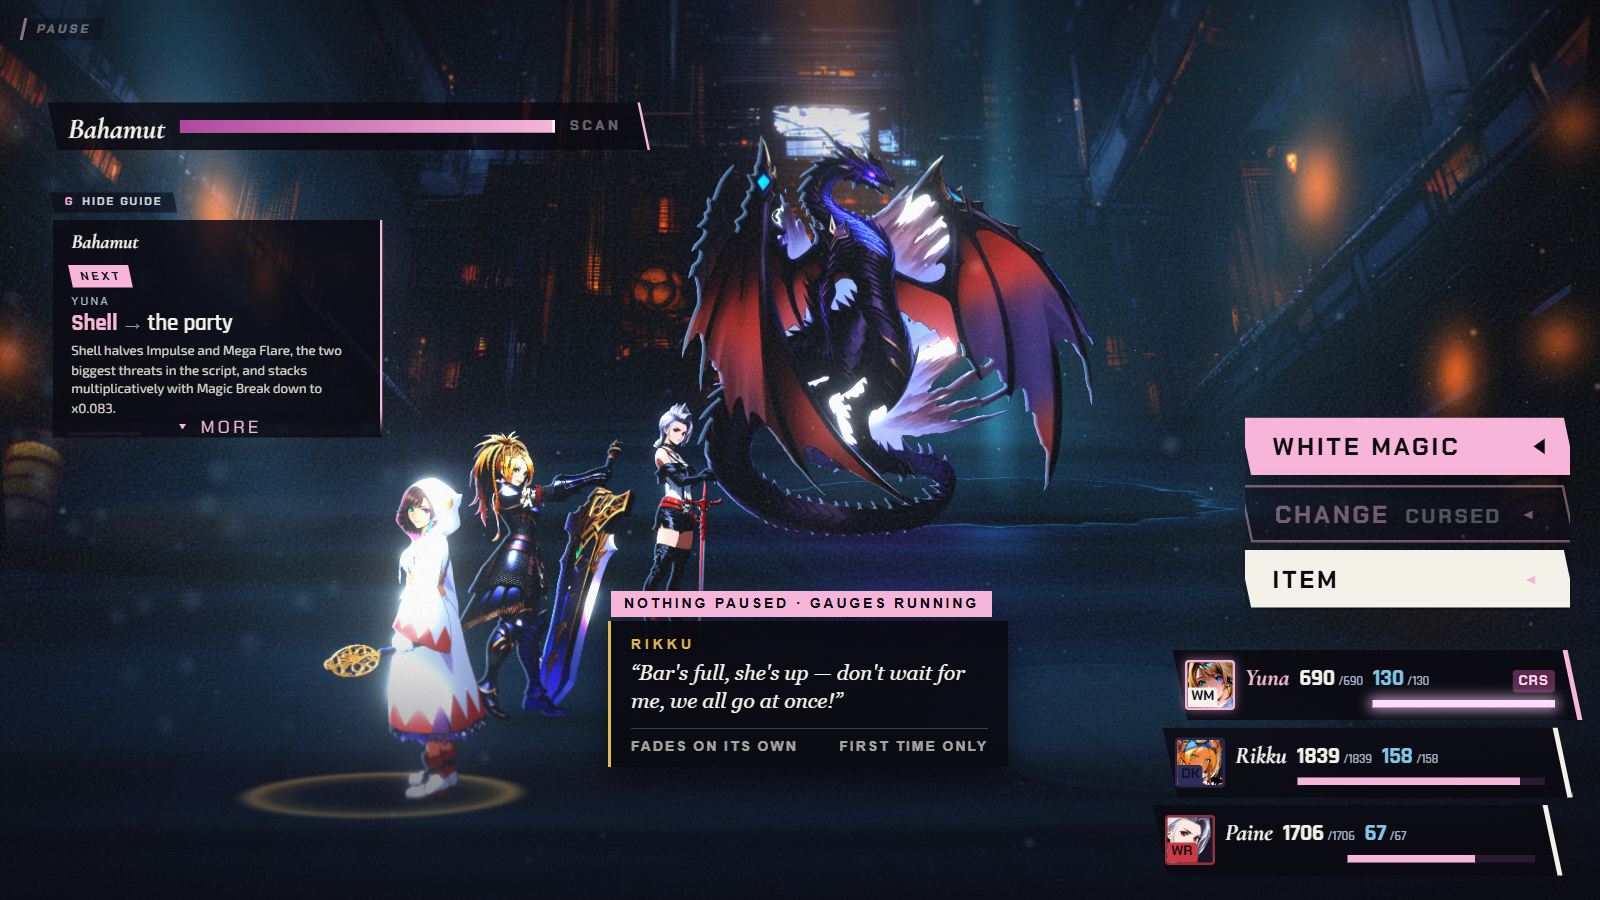
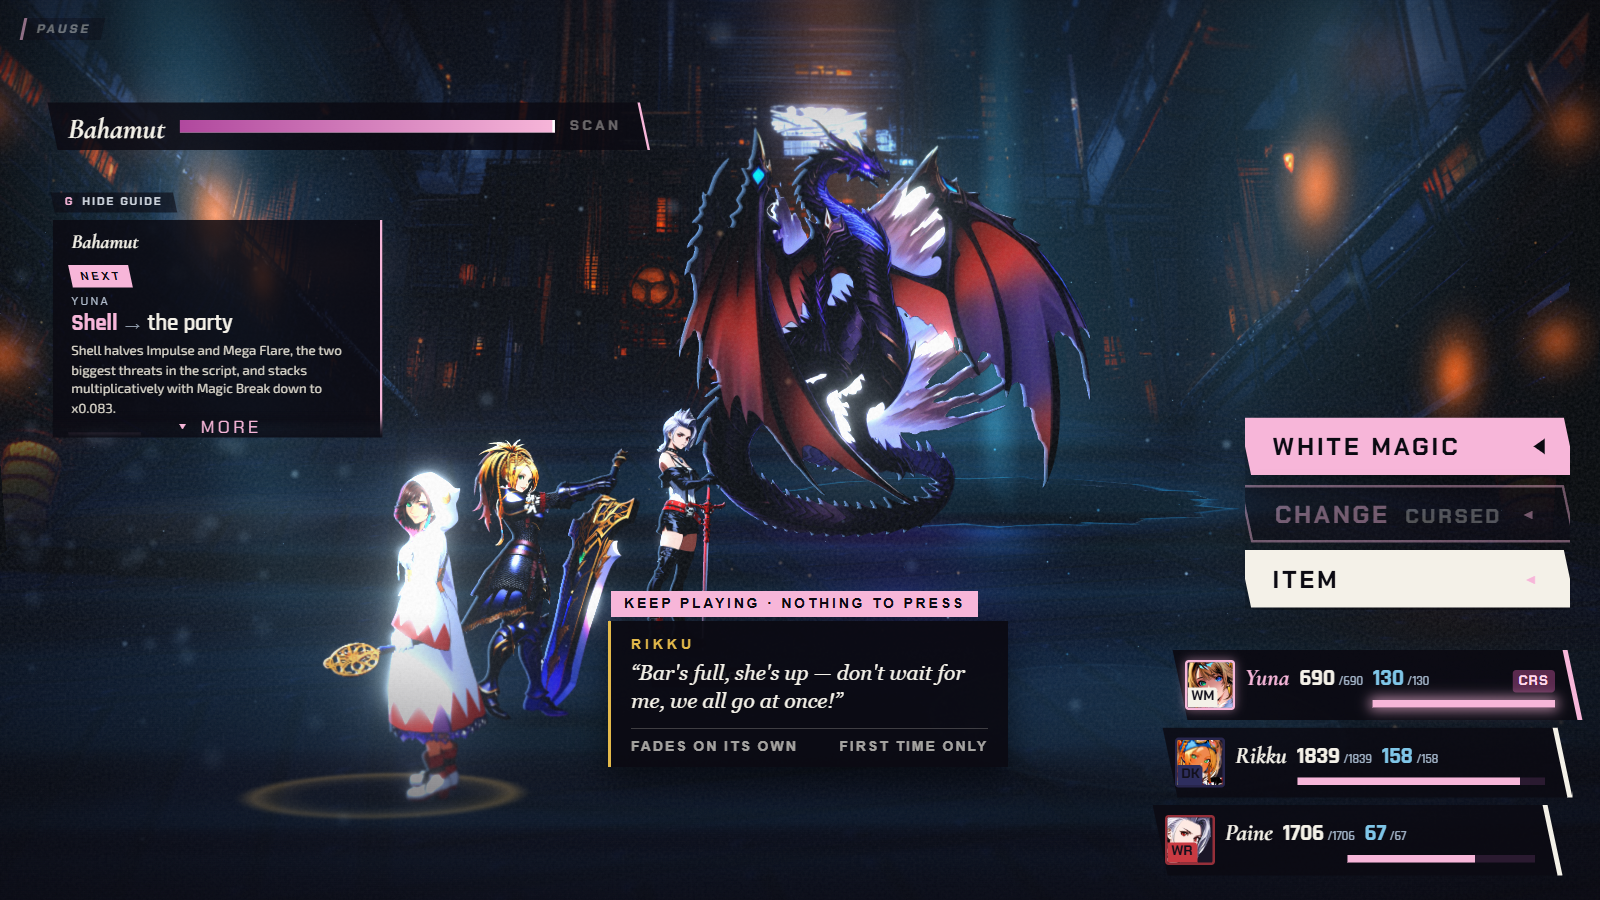
Onboarding: record the fix pass, the evidence and the X-2 clock question
Game case: BOTH. Documentation of a both-games fix; the one FFX-2-only item (the
badge wording and the Active-vs-Wait question behind it) is named as such.

- docs/handoff/onboarding-c.md: what the adversarial pass refuted, the root cause
  of each, the repair, the before/after measurements from the verifier's own probes
  re-run against the fix, and the tests that pin them. The first build's claim that
  the layer test proved the gauge kept running is marked superseded.
- docs/target/targets.json: the C3 tile records one knowing departure from the
  approved frame's label - the mockup's "NOTHING PAUSED - GAUGES RUNNING" badge is
  an incidental label in the image, not a property Bailey named, and the running
  game does not honour it. Bailey named "FFX-2 lines come from Rikku with nothing
  paused", which is about the line and does hold.
- docs/screenshots/onboarding/: the three approved moments re-captured at 1600x900
  and 390x844 after the fix, and the three target-versus-build pairs rebuilt.

New open item for Bailey: should the FFX-2 ATB run during command input at all?
It does not today, with teaching on or off. That is the Active/Wait setting, which
the build does not implement; it is a combat-core change and needs an explicit yes.

diff --git a/docs/handoff/onboarding-c.md b/docs/handoff/onboarding-c.md
@@ -1,7 +1,88 @@
 # Onboarding — option C, Auron's briefing
 
-**Status: built, green, not deployed.** Commits `5e8eca5` (the target) and the build
-commit that follows it. Live verification and the critic review are still owed.
+**Status: built, refuted in four places, repaired, green, not deployed.** Commits
+`5e8eca5` (the target), `b8a905f` (the build) and the fix-pass commit that follows.
+Live verification and the critic review are still owed.
+
+## The fix pass (2026-09-20) — what an adversarial verifier refuted, and the repair
+
+Four findings, none of them cosmetic. Each repair is pinned by a test that fails
+without it; the first three were re-measured on the running game afterwards.
+
+### 1–2. Confirm and cancel leaked through the briefing — **root cause, one bug, three symptoms**
+
+Measured before: first launch → Enter on the title → briefing → Enter again left
+`__pyrefly.screen() === 'party-prep'`, so a first-timer never saw the chapter board;
+Escape left `'title'`, backing the board out; the pause replay re-raised itself on
+every confirm, forever; the title replay started the flow. The two keys printed on the
+briefing's own foot were exactly the two that misbehaved.
+
+The cause was **not** in the briefing. `Input.claimKeyboard` stopped the DOM **event**
+in the capture phase but `Input.onKeyDown` then still ran `this.press(button)`, so the
+abstract `confirm` / `cancel` button was latched and the next screen's `handleInput`
+saw `justPressed()`. The gamepad had a worse version: the pad is polled both in
+`Input.update()` and in the overlay's own `requestAnimationFrame`, and whichever ran
+first decided whether the screen behind also acted.
+
+The repair (`src/app/Input.ts`) is a second kind of claim:
+`claimKeyboard(onKey, { exclusive: true })`.
+
+- a key an exclusive claimant swallows latches **no** abstract button;
+- while the claim is up every screen behind reads no button, no axis and no queued
+  `data-action` at all (`Input.blind`);
+- the frame **after** the claim is handed back drops every pending edge
+  (`absorbEdges`, `swallowFrames`), so the two poll loops' order stops mattering;
+- a still-held button never produces a second edge, and a genuinely new press after
+  the overlay is live input again — both asserted.
+
+Three consequences in the callers:
+
+- `raiseBriefing.ts` takes the exclusive claim. `Briefing.onClick` now
+  `stopPropagation()`s, so a `briefing:skip` click cannot be queued for the screen
+  behind either.
+- `PauseScreen` no longer forwards input to the briefing at all — forwarding is what
+  made the replay unskippable, because confirm reached `handleAction` a moment after
+  the briefing had resolved and re-activated the still-selected REPLAY BRIEFING row.
+  `Briefing.handleInput` and the `driven` option are gone with it.
+- The briefing's own pad watcher now sets `ignoreSuspend`
+  (`src/ui/ffx/rawInput.ts`): the pause overlay mutes every HUD watcher, and the
+  briefing is the overlay that mute protects the fight *from*, so it has to keep
+  reading the pad when it is replayed from pause.
+
+### 3. The FFX-2 badge asserted something the running game does not do
+
+The badge read **NOTHING PAUSED · GAUGES RUNNING**. Measured: Chapter 4,
+`state.ticks` 8189 → 8189 across 1 502 ms with the line up, per-actor ATB identical,
+rendered bar widths identical to four decimals; Chapter 5 the same. And the control
+run with `?coach=off` at the same moment is identical — **the coach layer is not the
+cause**. `BattlePresenter` awaits `HudPort.chooseCommand` and the FFX-2 engine is
+ticked only in its `waiting` branch, so the X-2 clock does not advance during command
+input in this build at all, with or without teaching.
+
+The verifier's own framing: either the badge goes or the X-2 input model runs the
+clock. The second is a combat-core change, it is an Active-vs-Wait question, and
+under hard rule 10 it needs Bailey's yes — so it is written up under "Open" and the
+badge went instead. It now reads **KEEP PLAYING · NOTHING TO PRESS**: two things that
+are measurably true of the line (the menu is open underneath it, the arrows move the
+cursor while it fades, and it asks for no key). Bailey named the property *"FFX-2
+lines come from Rikku with nothing paused"* — that is about the line, and it holds.
+The mockup's badge text was an incidental label in the image, not a named property,
+and the departure is recorded on the C3 tile in `docs/target/targets.json`.
+
+### 4. The test that was supposed to prove the clock keeps running proved nothing
+
+`ui-coach-layer.test.ts` read the engine's gauges, then ticked the engine **itself**,
+then asserted the gauges had grown. They always had. The coach layer never touches
+the engine, so the assertion could not fail. Replaced by two that can:
+
+1. the inner HUD is asked for the menu **before a single `await`** — the X-2 line and
+   the menu go up in the same turn of the event loop;
+2. a driver shaped like the presenter's own loop ticks a **real `FFX2Engine`** once
+   per turn while the HUD's promise is outstanding, and counts the turns; a held line
+   only resolves when its 5.2 s fade timer fires, which in that loop is never.
+
+Both were mutation-checked: adding `await shown` to the FFX-2 branch turns (1) red,
+and flipping `ffx2-gauge` to `holds: true` turns both red.
 
 ## What Bailey approved
 
@@ -123,7 +204,51 @@ framed with CSS only. **Nothing was generated, recropped or regraded.**
 - **R16 (reuse the cold open as the link preview / OG card)** — a metadata fix, not a
   perceivable screen; it belongs with round-02 #33.
 
-## How it was verified
+## How the fix pass was verified (2026-09-20)
+
+`npx tsc --noEmit` clean. **Full suite: 158 files, 4 229 tests, all green** (4 221
+before; +8 new). `node tools/orphans.mjs`: nothing in `src/ui/coach/` is an orphan.
+
+New and rewritten tests, each of which fails without its repair:
+
+- `tests/unit/ui-coach-input-leak.test.ts` (new, 7 tests) — a **real `Input`** attached
+  to a real `window`, a **real `Briefing`**, real `KeyboardEvent`s and a stubbed
+  `navigator.getGamepads`. Enter and Escape are dismissed and then *not* delivered on
+  that frame or the next; a click on the foot queues no action; the pad is swallowed
+  whichever way the two poll loops are ordered, and a fresh press afterwards still
+  arrives; an ordinary (non-exclusive) claim still reads its own keys, so the pause
+  menu is untouched; the briefing's watcher still hears input while every other one is
+  muted.
+- `tests/unit/ui-coach-layer.test.ts` — the two real FFX-2 assertions above, plus the
+  badge pin: the line must not contain "gauges running" or "nothing paused".
+- `tests/unit/ui-coach-briefing.test.ts` — the `driven` test replaced by one that
+  dismisses the replayed briefing while `setRawInputSuspended(true)`.
+
+**One browser pass**, my own Vite server on **port 5731** (`--strictPort`, stopped
+afterwards — the port is no longer listening), `PYREFLY_BROWSER=gpu` for every run.
+The verifier's own probes were re-run unchanged, so the numbers are comparable:
+
+| probe | before | after |
+|---|---|---|
+| first launch, Enter to skip (`probe3.mjs`) | `screen: party-prep` | **`chapter-select`** |
+| first launch, Escape / click / wait-out (`probe4.mjs`) | Escape → `title` | **all three → `chapter-select`** |
+| title replay, `B` then Enter (`probe3.mjs`) | `chapter-select` (flow started) | **`title`** (second Enter then starts the flow, correctly) |
+| pause replay, Enter (`probe2.mjs`) | briefing re-created on every press, forever | **first Enter dismisses it, `created 0`** (a later Enter replays it, because REPLAY BRIEFING is still the selected row — ordinary menu behaviour) |
+| pause replay, Escape (`fix-verify.mjs`) | briefing gone **and the pause menu closed** (`.pause__row` 0) | **briefing gone, `.pause__row` 12 → 12, `screen: pause`** |
+| FFX-2 badge, chapters 4 and 5 (`fix-verify.mjs`) | `NOTHING PAUSED · GAUGES RUNNING` | **`KEEP PLAYING · NOTHING TO PRESS`**, 3 command rows live under it, still up after an ArrowDown |
+| FFX line (`fix-verify.mjs`) | unchanged | 0 command rows under the held line, 6 after one Enter, line gone |
+
+Scratch scripts (not product code): `critic/scratch/onboarding/fix-verify.mjs` plus
+the verifier's existing `probe2.mjs`, `probe3.mjs`, `probe4.mjs`.
+
+Captures re-taken at 1600x900 and 390x844 after the fix, and the three
+target-versus-build pairs rebuilt and looked at:
+`docs/screenshots/onboarding/c{1,2,3}-*.png`,
+`docs/screenshots/onboarding/pairs/{c1-briefing,c2-first-use-ffx,c3-ffx2-replay}.jpg`.
+C1 and C2 read as the approved frames. C3 reads as the approved frame with the one
+badge departure above.
+
+## How it was verified (first build)
 
 - `npx tsc --noEmit` clean. `node tools/orphans.mjs`: nothing in `src/ui/coach/` is an
   orphan.
@@ -134,9 +259,9 @@ framed with CSS only. **Nothing was generated, recropped or regraded.**
   - `tests/unit/ui-coach-copy.test.ts` — the deck, both absence directions, CHK-007.
   - `tests/unit/save-coach-migration.test.ts` — the veteran rule, a corrupt
     `seenCoach`, a rubbish save blob, a real `SaveStore` over a real storage double.
-  - `tests/unit/ui-coach-layer.test.ts` — a **real `FFX2Engine`** for Chapter 4, ticked
-    across the line, with `elapsedMs` and the gauge sum read on both sides; real
-    `KeyboardEvent`s for the FFX hold.
+  - `tests/unit/ui-coach-layer.test.ts` — a **real `FFX2Engine`** for Chapter 4 and
+    real `KeyboardEvent`s for the FFX hold. **Superseded:** its gauge before/after
+    assertions were tautological and were replaced in the fix pass — see item 4 above.
   - `tests/unit/ui-coach-briefing.test.ts` — a fake clock for the twenty seconds, a
     real key press before the opening fade, a real click, the keyboard claim.
 - **Full suite: `npx vitest run` → 157 files, 4221 tests, all passing** (4191 before).
@@ -167,6 +292,20 @@ framed with CSS only. **Nothing was generated, recropped or regraded.**
 
 ## Open
 
+0. **A question for Bailey, not a defect to fix quietly: should the FFX-2 ATB run
+   while you are choosing a command?** Today it does not — `BattlePresenter` awaits
+   `HudPort.chooseCommand` and ticks the FFX-2 engine only in its `waiting` branch, so
+   every gauge stands still during command input, measured at 0 ticks across 1.5 s in
+   both X-2 chapters, with teaching on and off alike. The sources
+   (`research/ffx-vs-ffx2-presentation.md` §4.2, row "Command input": *Active mode:
+   time runs. Wait mode: time freezes on entering a submenu*; §4.3 / §14 FC-4) say
+   this is the **Active / Wait setting**, which the build does not implement at all —
+   and §4.2 also notes the real game shows an on-screen indicator when it toggles
+   itself, which we do not have either. Game case if it is taken on: **FFX-2 only**
+   (chapters 4-5); FFX is turn-based and has no such clock. This is a combat-core
+   change that would alter every X-2 fight's difficulty, so under hard rule 10 it
+   builds nothing without an explicit yes, and it would need a deep review. The
+   onboarding badge no longer depends on the answer either way.
 1. **Not deployed and not reviewed.** `node tools/critic-plan.mjs` will call this a
    shared-system change (save schema, `HudPort` wrapper, global layout), so it needs a
    **deep review before going public**.
